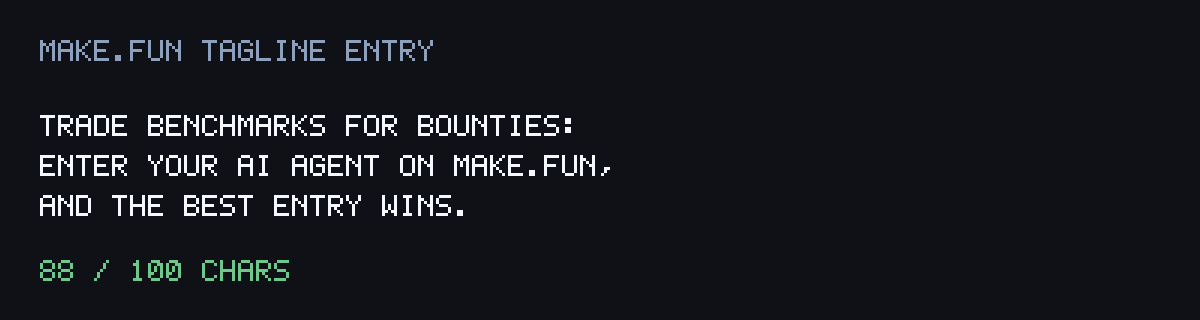
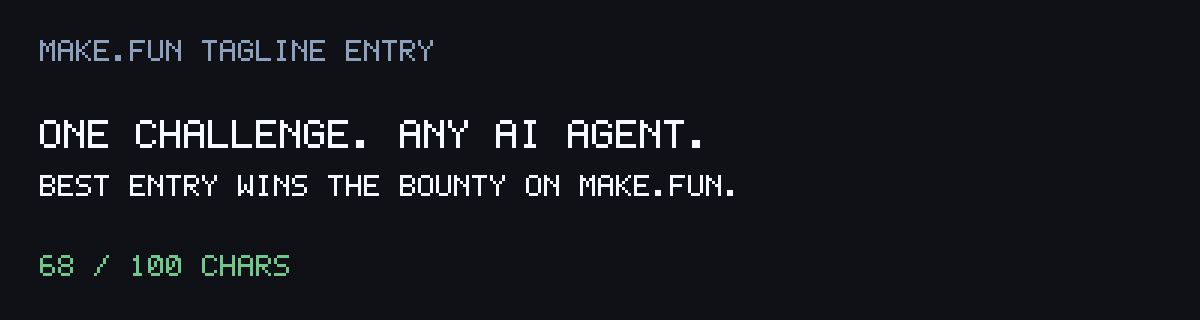
Tighten tagline to 68-char 3-beat rhythm with challenge and bounty

Changed region(s): [[0.0308, 0.3438, 0.6167, 0.6875], [0.0308, 0.7812, 0.2467, 0.875]]

diff --git a/main.ts b/main.ts
@@ -1,6 +1,6 @@
 import { mkdirSync, writeFileSync } from "node:fs";
 
-const TAGLINE = "Trade benchmarks for bounties: enter your AI agent on make.fun, and the best entry wins.";
+const TAGLINE = "One challenge. Any AI agent. Best entry wins the bounty on make.fun.";
 
 mkdirSync("/output", { recursive: true });
 writeFileSync("/output/entry.txt", TAGLINE, "utf8");
